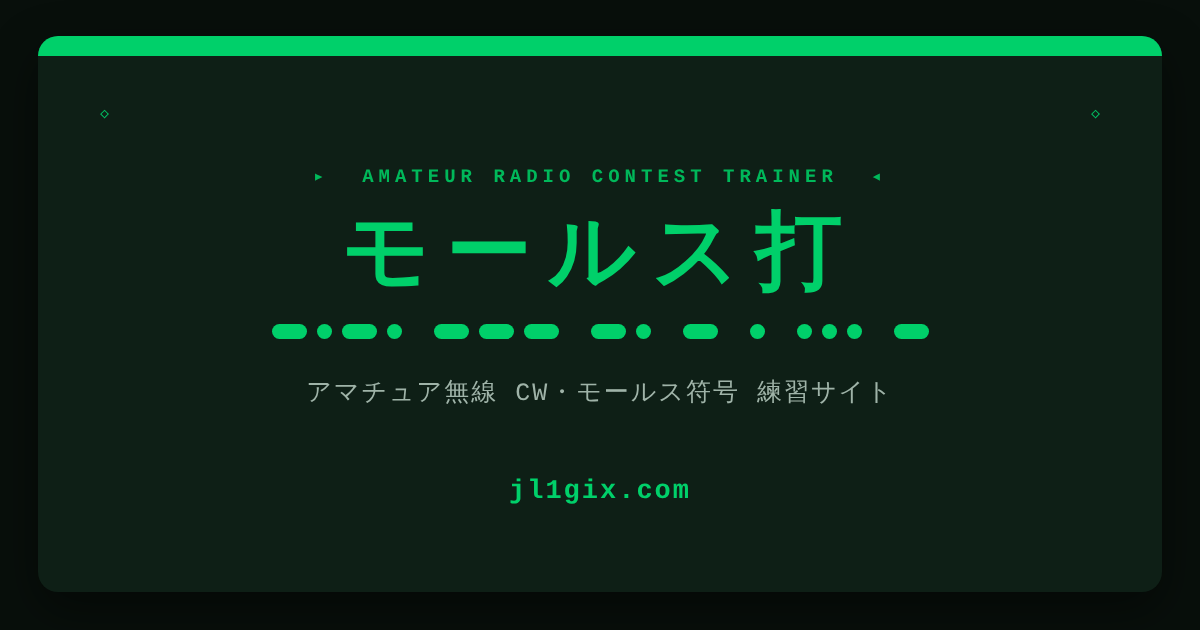
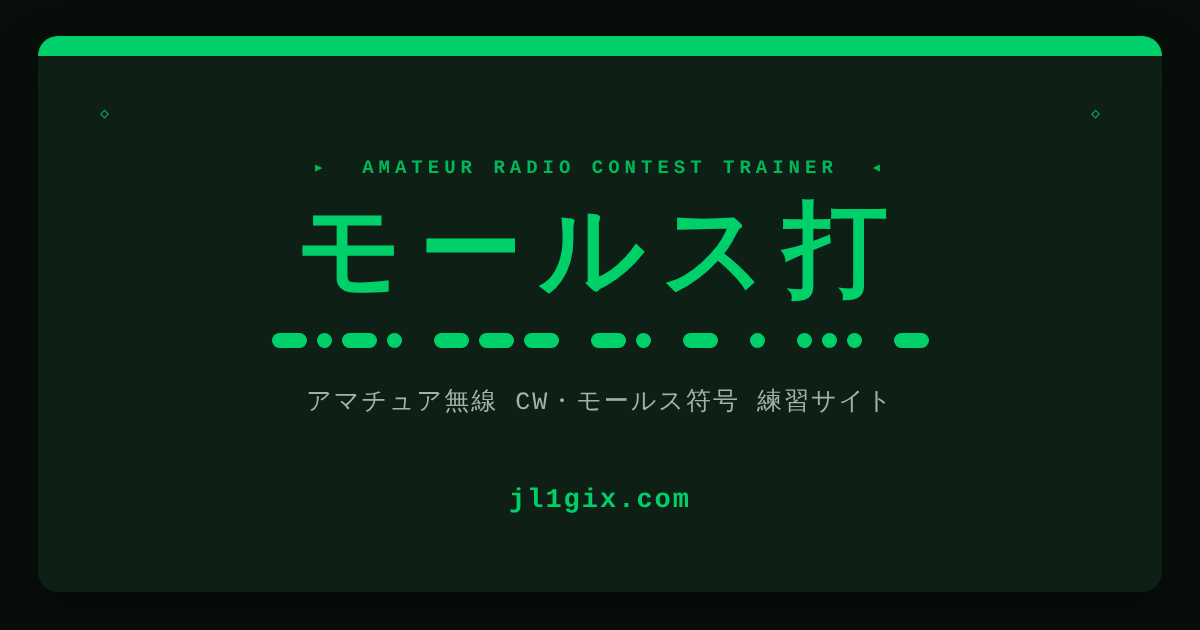
ミス時の枠点滅の不具合修正、正確重視モードのレイアウトシフト解消、OGP画像のタイトル文字拡大
- tx.js/asobi.jsの.flash-error/.flash-correctの付与先を、borderを持たない
  ラッパー要素#tx-areaから、実際に枠が見える#tx-word-displayに変更
  (間違えたときに枠が赤く光る演出が機能していなかった不具合を修正)
- asobi.js/asobi.html/asobi-en.htmlの#variant-status(正確重視モードの
  「やり直し」表示)をdisplay切り替えからvisibility切り替え+min-heightに変更し、
  ミス表示の出現/消滅で画面全体のレイアウト(ボタン位置含む)がずれないようにした
- OGP画像(ogp.png)の「モールス打」タイトル文字サイズを86px→104pxに拡大

詳細はPROJECT_MEMO.md 15章を参照。

Claude-Session: https://claude.ai/code/session_01Q1CtXPJrdTCuebKym4qoG5

diff --git a/asobi.js b/asobi.js
@@ -490,16 +490,27 @@ function selectGameVariant(variant) {
 }
 
 // ── プレイ中のモード別ステータス表示（正確重視: やり直し回数） ───────────────────────
+// 正確重視モード以外では行自体を完全に非表示にしスペースも取らない(display:none)。
+// 正確重視モードでは、ミスでテキストが出たり消えたりしても画面全体のレイアウトが
+// 動かないよう、常に同じ高さのスペースを確保したまま visibility のみを切り替える
+// (displayは切り替えない。高さはCSS側の#variant-statusのmin-heightで確保)。
 function updateVariantStatusUI() {
     const el = document.getElementById('variant-status');
     if (!el) return;
-    if (gameVariant !== 'ACCURACY' || accuracyResetCount <= 0) {
+    if (gameVariant !== 'ACCURACY') {
         el.classList.add('hidden');
+        el.classList.remove('active');
         el.textContent = '';
         return;
     }
     el.classList.remove('hidden');
-    el.textContent = t('accuracyResetLabel', accuracyResetCount);
+    if (accuracyResetCount <= 0) {
+        el.classList.remove('active');
+        el.textContent = '';
+    } else {
+        el.classList.add('active');
+        el.textContent = t('accuracyResetLabel', accuracyResetCount);
+    }
 }
 
 // キーラベルを、実物のキー形状に近いアイコンで描画する（Space＝横長の長方形、それ以外＝正方形）
@@ -714,7 +725,9 @@ function startWordTimer(word) {
 function handleWordTimeout() {
     wordTimeoutTimer = null;
     wordsMissed++;
-    const txArea = document.getElementById('tx-area');
+    // 枠の点滅(.flash-error)は、実際に境界線が見える#tx-word-display(お題表示の枠)に対して行う。
+    // #tx-areaは枠を持たないラッパーdivのため、従来はここに点滅クラスを付けても見た目上何も起きていなかった。
+    const txArea = document.getElementById('tx-word-display');
     if (txArea) {
         txArea.classList.remove('flash-correct');
         txArea.classList.add('flash-error');
@@ -853,9 +866,11 @@ function nextTxWord() {
     // 次の単語に進む際、前の単語で表示されていた「正確重視」のミス表示（赤点滅）を消す。
     // ※やり直し回数(accuracyResetCount)自体はリセットしない。表示だけ毎単語クリアし、
     //   その単語でまたミスした場合に再度表示される。
+    // (displayではなくvisibilityのみ切り替え、画面全体のレイアウトが動かないようにする。
+    //  NORMAL/ONESHOTモードでは元々display:noneのままなのでここでは何も変わらない。)
     const variantStatusEl = document.getElementById('variant-status');
     if (variantStatusEl) {
-        variantStatusEl.classList.add('hidden');
+        variantStatusEl.classList.remove('active');
         variantStatusEl.textContent = '';
     }
     const raw = pickCurrentWord();
@@ -1116,7 +1131,10 @@ function decodeTxChar() {
 
 function evaluateTxChar(decoded) {
     const expected = txWord[txCharIndex];
-    const txArea   = document.getElementById('tx-area');
+    // 枠の点滅(.flash-error/.flash-correct)は、実際に境界線が見える#tx-word-display
+    // (お題表示の枠)に対して行う。#tx-areaは枠を持たないラッパーdivのため、
+    // 従来はここに点滅クラスを付けても見た目上何も起きていなかった。
+    const txArea   = document.getElementById('tx-word-display');
     // コールサイン+ナンバーのコンテストナンバー部分のみ、カットナンバーも正解として許容する
     // (送信モードと同じ挙動。コールサイン部分や「身近な単語」カテゴリでは対象外)
     const cutAlts = (wordCategory === 'CALLSIGN' && !asobiCurrentIsCallsign && CUT_NUMBER_ACCEPT[expected]) || [];

diff --git a/asobi.html b/asobi.html
@@ -840,11 +840,16 @@
         .mode-tabs-label { font-size: 0.64rem; color: var(--text-secondary); letter-spacing: 2px; margin: 10px 0 6px; opacity: 0.85; text-align: left; }
         .settings-grid.no-time #wpm-setting-item { grid-column: 1 / -1; }
 
-        /* プレイ中のモード別ステータス表示（正確重視: やり直し回数） */
+        /* プレイ中のモード別ステータス表示（正確重視: やり直し回数）。
+           正確重視モード中は、表示/非表示の切り替えで画面全体のレイアウトが動かないよう、
+           テキストの有無に関わらず常に同じ高さのスペースを確保し(min-height)、
+           visibilityのみを切り替える(displayは切り替えない)。 */
         #variant-status {
             font-size: 0.68rem; letter-spacing: 1px; color: var(--error); text-align: center;
-            margin-bottom: 8px; text-shadow: none; animation: blink 0.7s infinite;
+            margin-bottom: 8px; text-shadow: none;
+            min-height: 1.3em; visibility: hidden;
         }
+        #variant-status.active { visibility: visible; animation: blink 0.7s infinite; }
         #game-container.oneshot-active { border-color: var(--error); border-top-color: var(--error); box-shadow: 0 0 40px rgba(231,76,60,0.18), 0 2px 10px rgba(100,20,20,0.1), inset 0 1px 0 rgba(231,76,60,0.1); }
         #game-container.oneshot-active #scope-container { border-color: #7a3a2e; }
 

diff --git a/asobi-en.html b/asobi-en.html
@@ -836,11 +836,16 @@
         .mode-tabs-label { font-size: 0.64rem; color: var(--text-secondary); letter-spacing: 2px; margin: 10px 0 6px; opacity: 0.85; text-align: left; }
         .settings-grid.no-time #wpm-setting-item { grid-column: 1 / -1; }
 
-        /* In-game status for the current variant (Accuracy Focus: restart count) */
+        /* In-game status for the current variant (Accuracy Focus: restart count).
+           During Accuracy Focus mode, reserve the same height whether or not text is
+           shown (min-height) and toggle only visibility (not display), so showing/hiding
+           this line never shifts the rest of the screen layout. */
         #variant-status {
             font-size: 0.68rem; letter-spacing: 1px; color: var(--error); text-align: center;
-            margin-bottom: 8px; text-shadow: none; animation: blink 0.7s infinite;
+            margin-bottom: 8px; text-shadow: none;
+            min-height: 1.3em; visibility: hidden;
         }
+        #variant-status.active { visibility: visible; animation: blink 0.7s infinite; }
         #game-container.oneshot-active { border-color: var(--error); border-top-color: var(--error); box-shadow: 0 0 40px rgba(231,76,60,0.18), 0 2px 10px rgba(100,20,20,0.1), inset 0 1px 0 rgba(231,76,60,0.1); }
         #game-container.oneshot-active #scope-container { border-color: #7a3a2e; }
 

diff --git a/tx.js b/tx.js
@@ -854,7 +854,10 @@ function decodeTxChar() {
 
 function evaluateTxChar(decoded) {
     const expected = txWord[txCharIndex];
-    const txArea   = document.getElementById('tx-area');
+    // 枠の点滅(.flash-error/.flash-correct)は、実際に境界線が見える#tx-word-display
+    // (お題表示の枠)に対して行う。#tx-areaは枠を持たないラッパーdivのため、
+    // 従来はここに点滅クラスを付けても見た目上何も起きていなかった。
+    const txArea   = document.getElementById('tx-word-display');
     // コールサインの1・0は本来の符号のみ正解（カットナンバー不可）。
     // コンテストナンバーの1・0は本来の符号に加え、カットナンバー（1→A、0→O/T）も正解とする。
     const cutAlts = (!txWordIsCallsign && CUT_NUMBER_ACCEPT[expected]) || [];

diff --git a/PROJECT_MEMO.md b/PROJECT_MEMO.md
@@ -622,4 +622,33 @@ git log --oneline -3
 
 ---
 
-_最終更新: 2026-11-19（サイト全体のビジュアルを白ベースから黒ベース（黒背景+白文字）へ再刷新。スコープの水色・Xシェアボタン等は変更せず、緑系の色は黒色時代の史実の値に復元。ファビコン・OGP画像も黒ベース化。詳細は14章）_
+## 15. ミス時の枠点滅の不具合修正、正確重視モードのレイアウトシフト解消、OGP画像のタイトル文字拡大 (2026-11)
+
+熊谷さんより3点の修正依頼があった。
+
+### 15.1 送信モード・お遊びモードで「間違えたときの枠が赤く光る」演出が機能していなかった不具合を修正
+
+`tx.js`の`evaluateTxChar()`と`asobi.js`の`evaluateTxChar()`/`handleWordTimeout()`は、正解/不正解時に`.flash-correct`/`.flash-error`クラス（`@keyframes error-flash`/`correct-flash`で`border-color`・`box-shadow`を一瞬変化させる演出）を付け外ししていたが、付与先の対象要素が**`#tx-area`（お題表示とモールス入力表示をまとめているだけの、border等のスタイルを一切持たないラッパーdiv）になっていた**ため、border-colorを変化させても見た目上は何も起きず、box-shadowのみがラッパー全体の外周にごく薄く出る程度で、「枠が光る」効果が実質機能していなかった。
+
+実際に視認可能な枠（`border: 1px solid var(--border); border-top: 2px solid var(--primary);`と四隅のコーナー装飾を持つお題表示ボックス）は`#tx-word-display`（`#tx-area`の子要素）の方だったため、`.flash-error`/`.flash-correct`の付与先を`#tx-area`から`#tx-word-display`に変更した。受信モード（`rx.js`）は元々正しく`#input-display`（同様に視認可能な枠を持つ要素）に対して演出していたため対象外（変更不要）。
+
+- 対象: `tx.js`の`evaluateTxChar()`（1箇所）、`asobi.js`の`handleWordTimeout()`・`evaluateTxChar()`（2箇所）。`cleanupTx()`内の`#tx-area`参照（Morse Boardモード切替用の表示/非表示トグル、枠点滅とは無関係）は変更していない。
+- `tx.js`/`asobi.js`は日英共通で読み込まれるファイルのため、修正は`tx.html`/`tx-en.html`/`free.html`/`free-en.html`/`asobi.html`/`asobi-en.html`の全てに自動的に反映される。
+- Playwrightで`evaluateTxChar()`に誤った文字を直接渡してミスを再現し、お題表示の枠が赤く光ることを確認済み。
+
+### 15.2 お遊びモード「正確重視」でミス時の「やり直し」表示が画面全体のレイアウトをずらしていた問題を解消
+
+正確重視モード（`gameVariant === 'ACCURACY'`）でミスすると、単語の最初からやり直しになり、`#variant-status`という要素に「↺ やり直し N回」という赤い点滅テキストが表示される（§4.7で追加）。この要素は`.hidden { display: none !important; }`で表示/非表示を切り替えていたため、テキストが出現する瞬間に要素の高さ分（1行+余白）だけ**その下にある時間/スコア/WPM・スペクトラムスコープ・お題表示・SIGNALバー・QUITボタン等がまとめて下にずれる**という問題が起きていた。熊谷さんより「ボタンの位置（モバイル版とか）がずれるのを防ぎたい、文字は追加で表示するだけでレイアウト自体は変えないでほしい」との指摘があった。
+
+- **対策**: `#variant-status`に`min-height: 1.3em;`を追加し、`display`ではなく`visibility`のみで表示/非表示を切り替えるよう変更した（`.active`クラスで`visibility: visible`、デフォルトは`visibility: hidden`）。これにより、正確重視モードでプレイ中は「テキストが無い間も同じ高さの透明な領域」が常に確保され、ミスでテキストが出現/消滅してもその下の要素は一切動かない。
+- **ただし、この領域を常時確保するのは正確重視モードの間だけに限定した**（`updateVariantStatusUI()`内で`gameVariant !== 'ACCURACY'`の場合は従来通り`.hidden`（`display: none`）のままにし、スペース自体を取らない）。普通モード・一発勝負モードはこの表示自体を使わないため、画面レイアウトは一切変更していない（従来通り）。
+- `asobi.js`の`updateVariantStatusUI()`（表示/非表示の中心ロジック）と`nextTxWord()`内（単語が変わるたびに前の単語のミス表示をクリアする処理）の計2箇所を、`display`の付け外しから`visibility`用の`.active`クラスの付け外しに変更。`asobi.html`/`asobi-en.html`の`#variant-status`のCSSに`min-height`と`visibility`ベースの切り替えを追加（`tx.js`/`rx.js`にはこの仕組み自体が無いため対象外）。
+- Playwrightで、正確重視モード開始直後とミス発生後の両時点でQUITボタン等の`getBoundingClientRect()`の座標を比較し、ずれが実質ゼロ（サブピクセル単位の誤差のみ）であることを確認済み。普通モードでは`#variant-status`が従来通り`display: none`のままで、スペース自体が追加されていないことも確認済み。
+
+### 15.3 Xシェア画像（OGP画像）の「モールス打」タイトル文字を拡大
+
+`ogp.png`生成用のHTML（`.title`クラス、CONTESTのモールス符号ワードマークと共に表示される「モールス打」の文字）のフォントサイズを`86px`→`104px`に拡大し、Playwrightで再レンダリングして`ogp.png`を差し替えた。カード幅1124pxに対しタイトルの実測幅は約607px（拡大後）で、左右に十分な余白が残っており、はみ出し・折り返しは発生していない。レイアウト・配色・CONTESTワードマーク自体は変更していない。
+
+---
+
+_最終更新: 2026-11-20（間違えたときの枠点滅が機能していなかった不具合を修正。お遊びモード「正確重視」のミス表示が画面全体のレイアウトを動かしていた問題を解消。Xシェア画像の「モールス打」タイトル文字を拡大。詳細は15章）_
